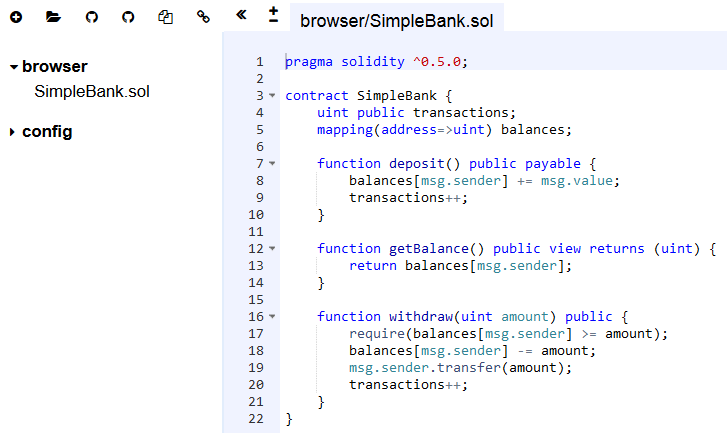
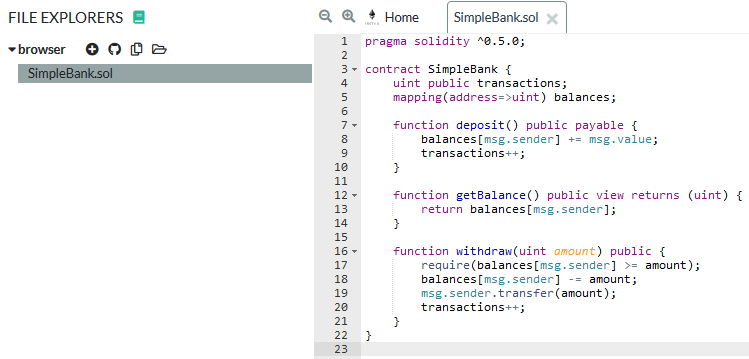
Update guide to Solidity 0.5.15 and to new Remix IDE

diff --git a/guide.md b/guide.md
@@ -28,8 +28,8 @@ For more information and details, you can read the [How does Ethereum work, anyw
 
 ## Solidity basics
 
-Solidity is a rapidly evolving language, but it has a well written and extensive [documentation](https://solidity.readthedocs.io/en/v0.5.0/).
-The current guide is based on version 0.5.0 (released on November 13, 2018), but the latest documentation is available at [solidity.readthedocs.io/en/latest](https://solidity.readthedocs.io/en/latest/).
+Solidity is a rapidly evolving language, but it has a well written and extensive [documentation](https://solidity.readthedocs.io/en/v0.5.15/).
+The current guide is based on version 0.5.15 (released on December 17, 2019), but the latest documentation is available at [solidity.readthedocs.io/en/latest](https://solidity.readthedocs.io/en/latest/).
 
 ### Layout of source files
 
@@ -37,17 +37,17 @@ An example Solidity smart contract can be seen below.
 The contract implements a simple bank, where users can deposit and withdraw money (Ether).
 Furthermore, the bank also counts the number of transactions.
 
-Source files start with a [_pragma_](https://solidity.readthedocs.io/en/v0.5.0/layout-of-source-files.html#pragmas) statement describing the _compiler version_ to use.
+Source files start with a [_pragma_](https://solidity.readthedocs.io/en/v0.5.15/layout-of-source-files.html#pragmas) statement describing the _compiler version_ to use.
 A source file can then define multiple _contracts_.
 The example below has a single contract named `SimpleBank`.
 At a first glance, smart contracts are similar to simple classes in object-oriented programming. Contracts can define
-- [_state variables_](https://solidity.readthedocs.io/en/v0.5.0/structure-of-a-contract.html#state-variables), which define the data stored on the blockchain and
-- [_functions_](https://solidity.readthedocs.io/en/v0.5.0/structure-of-a-contract.html#functions) that can manipulate the data and interact with other accounts.
+- [_state variables_](https://solidity.readthedocs.io/en/v0.5.15/structure-of-a-contract.html#state-variables), which define the data stored on the blockchain and
+- [_functions_](https://solidity.readthedocs.io/en/v0.5.15/structure-of-a-contract.html#functions) that can manipulate the data and interact with other accounts.
 
 
-It is also possible to [_import_](https://solidity.readthedocs.io/en/v0.5.0/layout-of-source-files.html#importing-other-source-files) other contracts from other source files and Solidity also supports [_inheritance_](https://solidity.readthedocs.io/en/v0.5.0/contracts.html#inheritance) between contracts.
+It is also possible to [_import_](https://solidity.readthedocs.io/en/v0.5.15/layout-of-source-files.html#importing-other-source-files) other contracts from other source files and Solidity also supports [_inheritance_](https://solidity.readthedocs.io/en/v0.5.15/contracts.html#inheritance) between contracts.
 
-```
+```solidity
 pragma solidity ^0.5.0;
 
 contract SimpleBank {
@@ -79,28 +79,30 @@ The SimpleBank example defines two state variables.
 - `balances` is a _mapping_ from addresses to integers, storing the current balance of each user. Mappings work similarly to maps in Java/C++ or dictionaries in C#/Python.
 
 **Types.** Solidity is a strongly-typed language, i.e., the type of each variable must be explicitly specified.
-Solidity offers various [_primitive types_](https://solidity.readthedocs.io/en/v0.5.0/types.html#value-types), including:
+Solidity offers various [_value types_](https://solidity.readthedocs.io/en/v0.5.15/types.html#value-types), including:
 - Booleans (true/false).
 - Signed and unsigned integers of various bit-lengths: `int8`, `int16`, `int24`, ..., `int256` are signed and `uint8`, `uint16`, `uint24`, ..., `uint256` are unsigned integers with 8, 16, 24, ..., 256 bits. The default `int` and `uint` types correspond to `int256` and `uint256` respectively.
 - Addresses (`address`) are 160-bit integers corresponding to Ethereum addresses.
 
-Solidity also provides [_reference types_](https://solidity.readthedocs.io/en/v0.5.0/types.html#reference-types), including:
+Solidity also provides [_reference types_](https://solidity.readthedocs.io/en/v0.5.15/types.html#reference-types), including:
 - Arrays (with fixed or dynamic size).
 - Structures (`struct`).
 - Mappings (`mapping(...=>...)`).
 
-These types work in a similar way as in other programming languages.
-For more information on types, see [types section of the documentation](https://solidity.readthedocs.io/en/v0.5.0/types.html).
+These types work mostly in a similar way as in other programming languages.
+However, such types can reside in different [data locations](https://solidity.readthedocs.io/en/v0.5.15/types.html#data-location), such as the permanent contract `storage` (stored on the blockchain) or in a transient `memory` (during executing a transaction).
+The behavior of allocations and assignments can be different for these data locations (e.g., assignments between storage entities do a deep copy, while in memory it is just reference assignment) so pay special attention.
+For more information on types, see the [types section of the documentation](https://solidity.readthedocs.io/en/v0.5.15/types.html) or the [article formalizing the memory model](https://arxiv.org/pdf/2001.03256.pdf).
 
-**Visibility.** State variable [visibility](https://solidity.readthedocs.io/en/v0.5.0/contracts.html#visibility-and-getters) can be `private`, `internal` or `public`, which are similar to other programming languages.
+**Visibility.** State variable [visibility](https://solidity.readthedocs.io/en/v0.5.15/contracts.html#visibility-and-getters) can be `private`, `internal` or `public`, which are similar to other programming languages.
 However, there are a few remarkable differences.
 - For public variables, only a getter function is generated automatically. They cannot be directly written by other contracts or transactions.
-- Although private (and internal) variables cannot be accessed and modified by other contracts, transactions on the blockchain are public, so the information stored in such variables is still visible to anyone. Never store passwords or other secret information on the blockchain.
+- Although private (and internal) variables cannot be accessed and modified by other contracts, transactions on the blockchain are public, so the information stored in such variables is still visible to anyone. Never store passwords or other secret information directly in state variables.
 - If no visibility is specified, `internal` is the default.
 
 ### Functions
 
-[Functions](https://solidity.readthedocs.io/en/v0.5.0/contracts.html#functions) in Solidity can read and manipulate the state variables and interact with other contracts and accounts.
+[Functions](https://solidity.readthedocs.io/en/v0.5.15/contracts.html#functions) in Solidity can read and manipulate the state variables and interact with other contracts and accounts.
 Functions can have parameters (e.g., `withdraw` in the example has one parameter) and can return values (e.g., `getBalance` returns one).
 The SimpleBank example specifies three functions.
 - The `deposit` function is `public` (can be called by anyone) and `payable`, which means that it can receive Ether as part of the call.
@@ -118,26 +120,26 @@ The `require` statement checks the condition and reverts the whole transaction i
 Otherwise it updates the mapping by decreasing the balance of the caller and then transfers the required amount using the `transfer` function.
 Finally, the function increments the `transactions` counter.
 
-Besides the basic statements illustrated by the SimpleBank example, functions can have [other statements](https://solidity.readthedocs.io/en/v0.5.0/control-structures.html) such as selection (`if else`) or loops (`for`, `while`).
+Besides the basic statements illustrated by the SimpleBank example, functions can have [other statements](https://solidity.readthedocs.io/en/v0.5.15/control-structures.html) such as selection (`if else`) or loops (`for`, `while`).
 However, as execution costs a transaction fee per instruction (gas), it is recommended to avoid complex operations like loops when possible.
 Furthermore, instructions writing the blockchain state are more expensive to execute, therefore it is also recommended to minimize the number of writes.
 
 **Special variables and functions.** As already mentioned in the example, functions can access a special `msg` field, which stores information about the function call.
-Besides `msg`, functions can also access some other special variables and functions, including for example the parameters of the current transaction and block, the current timestamp or the remaining gas.
-For more information, see the [documentation](https://solidity.readthedocs.io/en/v0.5.0/units-and-global-variables.html#special-variables-and-functions).
-However, use these special variables and functions with caution as they may introduce vulnerabilities to your contract.
-For example, `tx.origin` [should never be used for authorization](https://solidity.readthedocs.io/en/v0.5.0/security-considerations.html#tx-origin), use `msg.sender` instead.
+Besides `msg`, functions can also access some other special variables and functions, including for example the parameters of the current transaction (`tx`) and block (`block`), the current timestamp (`now`) or the remaining gas (`gasleft()`).
+For more information, see the [special variables and functions section of the documentation](https://solidity.readthedocs.io/en/v0.5.15/units-and-global-variables.html#special-variables-and-functions).
+Use these special variables and functions with caution as they may introduce vulnerabilities to your contract.
+For example, `tx.origin` [should never be used for authorization](https://solidity.readthedocs.io/en/v0.5.15/security-considerations.html#tx-origin), use `msg.sender` instead.
 
 **Visibility.** Functions must be marked with a `public`, `internal`, `private` or `external` visibility.
-For more information, see the [visibility section of the documentation](https://solidity.readthedocs.io/en/v0.5.0/contracts.html#visibility-and-getters).
+For more information, see the [visibility section of the documentation](https://solidity.readthedocs.io/en/v0.5.15/contracts.html#visibility-and-getters).
 In previous versions of Solidity, if a function did not specify a visibility it was public by default.
 However, this lead to vulnerabilities and in the current version the visibility must be specified.
 
 **Constructor.** State variables are initialized to their default values (e.g., `0` for integer types or an empty mapping).
-However, an explicit [constructor](https://solidity.readthedocs.io/en/v0.5.0/contracts.html#constructors) can be provided (including parameters) with the `constructor` keyword.
+However, an explicit [constructor](https://solidity.readthedocs.io/en/v0.5.15/contracts.html#constructors) (at most one) can be provided (including parameters) with the `constructor` keyword.
 For example, one could write a constructor for the SimpleBank example, which starts the transaction counter from a given parameter.
 
-```
+```solidity
 contract SimpleBank {
     // ...
     constructor(uint start) public {
@@ -148,11 +150,11 @@ contract SimpleBank {
 
 ### Handling Ether
 
-Each [address](https://solidity.readthedocs.io/en/v0.5.0/units-and-global-variables.html#address-related) (contract or external) is associated with a balance in Ether.
+Each [address](https://solidity.readthedocs.io/en/v0.5.15/units-and-global-variables.html#address-related) (contract or external) is associated with a balance in Ether.
 Solidity provides various language features to query balances and transfer Ether.
 The `address` type has a field `balance` which can query the balance.
 For example, to query the balance of the current contract inside a function we can use `address(this).balance`:
-```
+```solidity
 function getContractBalance() public returns (uint) {
     return address(this).balance;
 }
@@ -170,12 +172,12 @@ The Ether attached is automatically added to the balance of the contract, but ca
 When a contract wants to call another contract and send Ether, it can set the amount with the `value` function.
 For example, if we have a `SimpleBank sb` field in another contract, we can call `sb.deposit.value(amount)()` to deposit a given amount.
 
-Each contract can have at most one function _without a name_, which is called the [_fallback function_](https://solidity.readthedocs.io/en/v0.5.0/contracts.html#fallback-function).
+Each contract can have at most one function _without a name_, which is called the [_fallback function_](https://solidity.readthedocs.io/en/v0.5.15/contracts.html#fallback-function).
 This function gets executed when a call to the contract matches no other function.
 Furthermore it is also executed when `transfer` or `send` is used to transfer Ether to a contract.
 However, this requires the fallback function to be marked as `payable`.
 An example fallback function can be seen below.
-```
+```solidity
 function () public payable {
     // Do something
 }
@@ -189,7 +191,7 @@ For example, `uint amount = 1 ether;` will store `10^18` in the variable `amount
 
 Transactions in Ethereum work in an atomic way: if there is an error, the whole transaction gets reverted.
 Errors can happen due to some condition in the execution, such as running out of the execution fee or indexing an array out of bounds.
-However, there are multiple ways for the programmer to [raise an error](https://solidity.readthedocs.io/en/v0.5.0/control-structures.html#error-handling-assert-require-revert-and-exceptions).
+However, there are multiple ways for the programmer to [raise an error](https://solidity.readthedocs.io/en/v0.5.15/control-structures.html#error-handling-assert-require-revert-and-exceptions).
 - `require(...)` checks if a condition holds and if not, it reverts the transaction. It is recommended to be used for example to validate parameters at the beginning of the function.
 - `assert(...)` is similar to `require` in its effect, but it is recommended to use for checking conditions that should not fail. Proper code should never reach an assertion failure. In contrast, it is normal for `require` to raise an error.
 - `revert()` simply reverts the transaction.
@@ -200,10 +202,11 @@ These functions should be used with caution.
 
 ### Further reading
 
-Solidity supports some other language elements that were not discussed here, including [function modifiers](https://solidity.readthedocs.io/en/v0.5.0/contracts.html#function-modifiers), [events](https://solidity.readthedocs.io/en/v0.5.0/contracts.html#events), [inheritance](https://solidity.readthedocs.io/en/v0.5.0/contracts.html#inheritance), [interfaces](https://solidity.readthedocs.io/en/v0.5.0/contracts.html#interfaces) and [libraries](https://solidity.readthedocs.io/en/v0.5.0/contracts.html#libraries).
-For more information, please refer to the [documentation](https://solidity.readthedocs.io/en/v0.5.0/).
+Solidity supports some other language elements that were not discussed here, including [function modifiers](https://solidity.readthedocs.io/en/v0.5.15/contracts.html#function-modifiers), [events](https://solidity.readthedocs.io/en/v0.5.15/contracts.html#events), [inheritance](https://solidity.readthedocs.io/en/v0.5.15/contracts.html#inheritance), [interfaces](https://solidity.readthedocs.io/en/v0.5.15/contracts.html#interfaces) and [libraries](https://solidity.readthedocs.io/en/v0.5.15/contracts.html#libraries).
+Solidity 0.6.0 also introduced exception handling using [try/catch](https://solidity.readthedocs.io/en/v0.6.0/control-structures.html#try-catch).
+For more information, please refer to the [documentation](https://solidity.readthedocs.io/en/v0.5.15/).
 
-Detailed tutorials are also available: [greeter](https://ethereum.org/greeter), [token](https://ethereum.org/token), [crowdsale](https://ethereum.org/crowdsale), [dao](https://ethereum.org/dao).
+Detailed tutorials are also available: [greeter](https://ethereum.gitbooks.io/frontier-guide/contract_greeter.html), [token](https://ethereum.gitbooks.io/frontier-guide/contract_coin.html), [crowdsale](https://ethereum.gitbooks.io/frontier-guide/contract_crowdfunder.html), [dao](https://ethereum.gitbooks.io/frontier-guide/contract_democracy.html).
 Furthermore, [Ethernaut](https://ethernaut.zeppelin.solutions/) and [Cryptozombies](https://cryptozombies.io/) are interactive tutorials.
 
 For the latest news, read the [Ethereum blog](https://blog.ethereum.org/).
@@ -211,23 +214,23 @@ For the latest news, read the [Ethereum blog](https://blog.ethereum.org/).
 While it may seem easy to develop Solidity code, it is also easy to make mistakes.
 Since the Ethereum blockchain is public, anyone can exploit such bugs, causing serious financial damages (e.g., [reentrancy in the DAO](https://medium.com/swlh/the-story-of-the-dao-its-history-and-consequences-71e6a8a551ee) or [overflow in the BECToken](https://medium.com/@peckshield/alert-new-batchoverflow-bug-in-multiple-erc20-smart-contracts-cve-2018-10299-511067db6536)).
 Furthermore, the blockchain is permanent so buggy contracts cannot be patched once deployed.
-It is therefore highly recommended to read about [security considerations](https://solidity.readthedocs.io/en/v0.5.0/security-considerations.html), [common attacks](https://medium.com/coinmonks/common-attacks-in-solidity-and-how-to-defend-against-them-9bc3994c7c18) and [best practices](https://consensys.github.io/smart-contract-best-practices/known_attacks/).
-There is also a handful of tools targeting the verification of contracts, including [Truffle](https://truffleframework.com/), [Securify](https://securify.chainsecurity.com/), [Oyente](https://github.com/melonproject/oyente), [Maian](https://github.com/MAIAN-tool/MAIAN), [MythX](https://mythx.io/), [Slither](https://github.com/trailofbits/slither), [solc-verify](https://github.com/SRI-CSL/solidity/tree/boogie/) and [VeriSolid](https://github.com/VeriSolid/smart-contracts).
+It is therefore highly recommended to read about [security considerations](https://solidity.readthedocs.io/en/v0.5.15/security-considerations.html), [common attacks](https://medium.com/coinmonks/common-attacks-in-solidity-and-how-to-defend-against-them-9bc3994c7c18) and [best practices](https://consensys.github.io/smart-contract-best-practices/known_attacks/).
+There is also a handful of tools targeting the verification of contracts, including [Truffle](https://truffleframework.com/), [Securify](https://securify.chainsecurity.com/), [MythX](https://mythx.io/), [Slither](https://github.com/crytic/slither), [solc-verify](https://github.com/SRI-CSL/solidity/), [VerX](https://verx.ch/) and [VeriSolid](https://github.com/VeriSolid/smart-contracts).
 
 ## Development and testing
 
 As with other programming languages, development requires some tools.
 [Visual Studio Code](http://code.visualstudio.com) has a Solidity extension to edit Solidity contracts.
-The official compiler is [Solc](https://solidity.readthedocs.io/en/v0.5.0/installing-solidity.html), which can translate the contract into EVM bytecode.
+The official compiler is [Solc](https://solidity.readthedocs.io/en/v0.5.15/installing-solidity.html), which can translate the contract into EVM bytecode.
 Alternatively, [Remix](http://remix.ethereum.org) can also be used, which is a web-based IDE supporting editing, compiling and testing.
-In order to deploy a contract to a real network one also needs a wallet such as [Metamask](http://metamask.io) or [Mist](http://github.com/ethereum/mist).
+In order to deploy a contract to a real network one also needs a wallet such as [Metamask](https://github.com/MetaMask).
 For more complex contracts and scenarios, one should also consider the [Truffle Suite](http://truffleframework.com), providing various development tools.
 In the following, we cover the basics of [Remix](http://remix.ethereum.org).
-For more information, please refer to the [documentation of Remix](https://remix.readthedocs.io/en/latest/).
+For more information, please refer to the [documentation of Remix](https://remix-ide.readthedocs.io/en/latest/).
 
 ### Writing a contract
 
-You can create or import files in Remix with the icons on the top left.
+You can create or import files in Remix with the icons on the top left (file explorers).
 As an example, create a new file named `SimpleBank.sol` and copy the code from the SimpleBank example above.
 Remix supports syntax highlighting and auto completion as well.
 
@@ -235,16 +238,17 @@ Remix supports syntax highlighting and auto completion as well.
 
 ### Compiling a contract
 
-The contract can be compiled by selecting the _Compile_ tab on the top right.
+In order to compile a contract, the compiler plug-in has to be activated by clicking on the plug-in icon on the left sidebar and finding the _Solidity compiler_ plugin.
+A new icon for the compiler should appear in the left sidebar which activates the compiler tab.
+You can select a compiler version and click _Compile_ or you can also turn on the _Auto compile_ option.
+On a successful compilation, the contract name will appear below the compiler configuration.
 
 ![Compiling in Remix](img/remix-compiler.png)
 
-You can select a compiler version and click _Start to compile_ or you can also turn on the _Auto compile_ option.
-On a successful compilation, you will receive a green message with the name of the contract.
 
 ### Testing a contract
 
-For a simple local test, select the _Run_ tab on the top right.
+For a simple local test, activate the _Deploy & run transactions_ plug-in.
 The default _environment_ is JavaScript VM, which runs an Ethereum Virtual Machine (EVM) locally (i.e., it does not connect to the real network).
 This makes testing quick and free.
 Remix also supports connecting to a real network by selecting the Web3 option as an environment (which requires a wallet first).
@@ -265,17 +269,17 @@ The contract should appear below in the list of deployed contracts.
 You can also see that the balance of the selected account decreased a bit.
 This is because deploying a contract is a special transaction that also costs execution fee (gas).
 
-If you click on a deployed contract, its public interface appears.
+If you click on the small arrow on the left of a deployed contract, its public interface appears.
 Our example, `SimpleBank` has 4 functions.
-You can see that `view` functions are marked with a different color.
-These do not result in transactions and therefore have no execution fee.
+You can see that `payable` and `view` functions are marked with a different color.
+View functions do not result in transactions and therefore have no execution fee.
 Click on a function to execute it.
 If a function has parameters (such as `withdraw`), you can specify its parameters in the textboxes next to the name of the function.
 After executing the function, the return value (if any) appears below.
 
 ![The deployed contract in Remix](img/remix-deployed.png)
 
-You can also inspect the details of the transactions in the middle below the editor.
+You can also inspect the details of the transactions at the bottom (below the editor).
 For example, you can see the deployment transaction below.
 
 ![Details of a transaction in Remix](img/remix-details.png)
@@ -285,7 +289,8 @@ For example, you can set the _value_ to 10 Ether and call `deposit`.
 Then `getBalance` should return 10000000000000000000 (Wei).
 Calling `transactions` should return 1.
 If you switch to a different account and call `getBalance` you should see 0.
-If you try to withdraw, the transaction should fail due to the `require`.
-Switching back to the previous account, `deposit` should work (for no more than 10 Ether).
+If you try to `withdraw`, the transaction should fail due to the `require`.
+Switching back to the previous account, `withdraw` should work (for no more than 10 Ether).
 
 If you make modifications to the contract, don't forget to compile and deploy again!
+You can also take a look at other plug-ins, such as the _Solidity static analysis_, the _Solidity unit testing_ or the _Debugger_.

diff --git a/vulnerabilities.md b/vulnerabilities.md
@@ -45,4 +45,4 @@ You can refer to them for more details and examples.
 - [Nikolic, Kolluri, Sergey, Saxena, Hobor - Finding The Greedy, Prodigal, and Suicidal Contracts at Scale (2018)](https://arxiv.org/pdf/1802.06038.pdf)
 
 It is also highly recommended to read about [security considerations](https://solidity.readthedocs.io/en/v0.5.0/security-considerations.html), [common attacks](https://medium.com/coinmonks/common-attacks-in-solidity-and-how-to-defend-against-them-9bc3994c7c18) and [best practices](https://consensys.github.io/smart-contract-best-practices/known_attacks/).
-There is a handful of tools targeting the verification of contracts, including [Truffle](https://truffleframework.com/), [Securify](https://securify.chainsecurity.com/), [Oyente](https://github.com/melonproject/oyente), [Maian](https://github.com/MAIAN-tool/MAIAN), [MythX](https://mythx.io/), [Slither](https://github.com/trailofbits/slither), [solc-verify](https://github.com/SRI-CSL/solidity/tree/boogie/) and [VeriSolid](https://github.com/VeriSolid/smart-contracts).
+There is also a handful of tools targeting the verification of contracts, including [Truffle](https://truffleframework.com/), [Securify](https://securify.chainsecurity.com/), [MythX](https://mythx.io/), [Slither](https://github.com/crytic/slither), [solc-verify](https://github.com/SRI-CSL/solidity/), [VerX](https://verx.ch/) and [VeriSolid](https://github.com/VeriSolid/smart-contracts).
